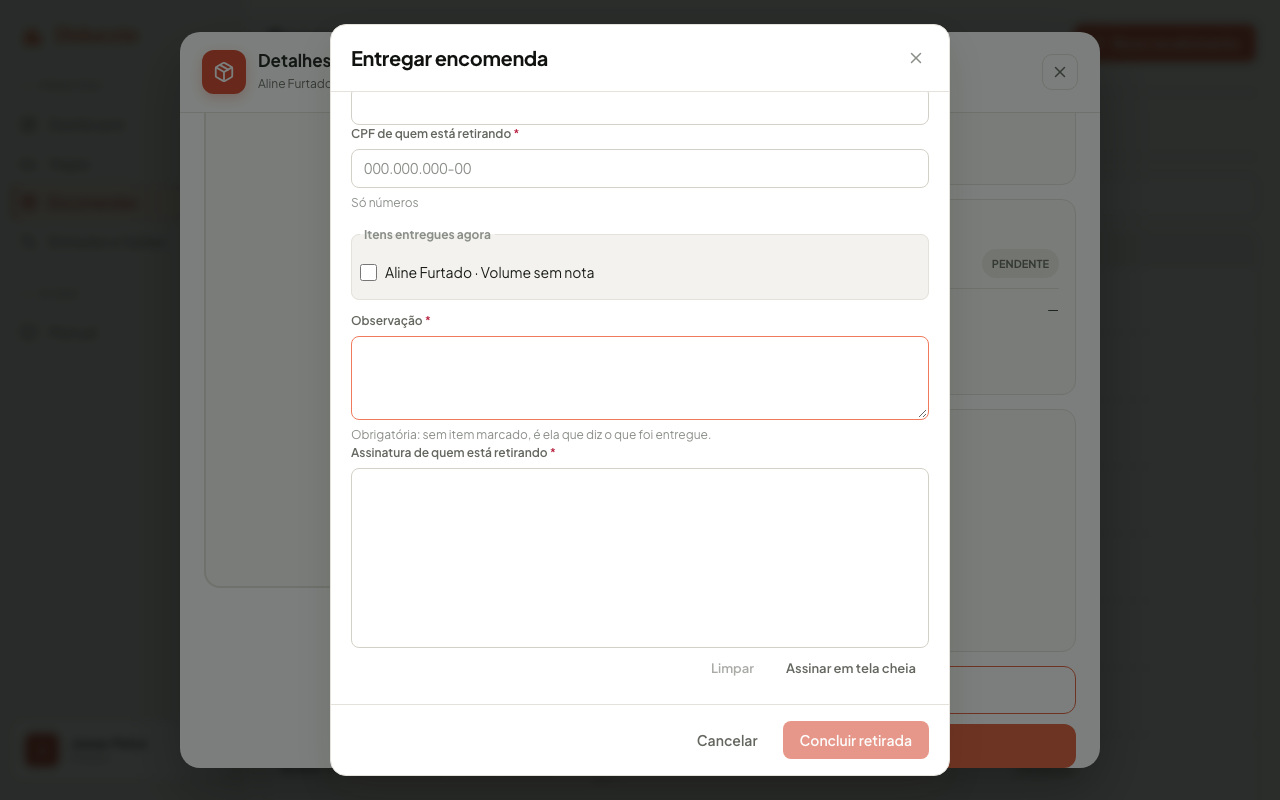
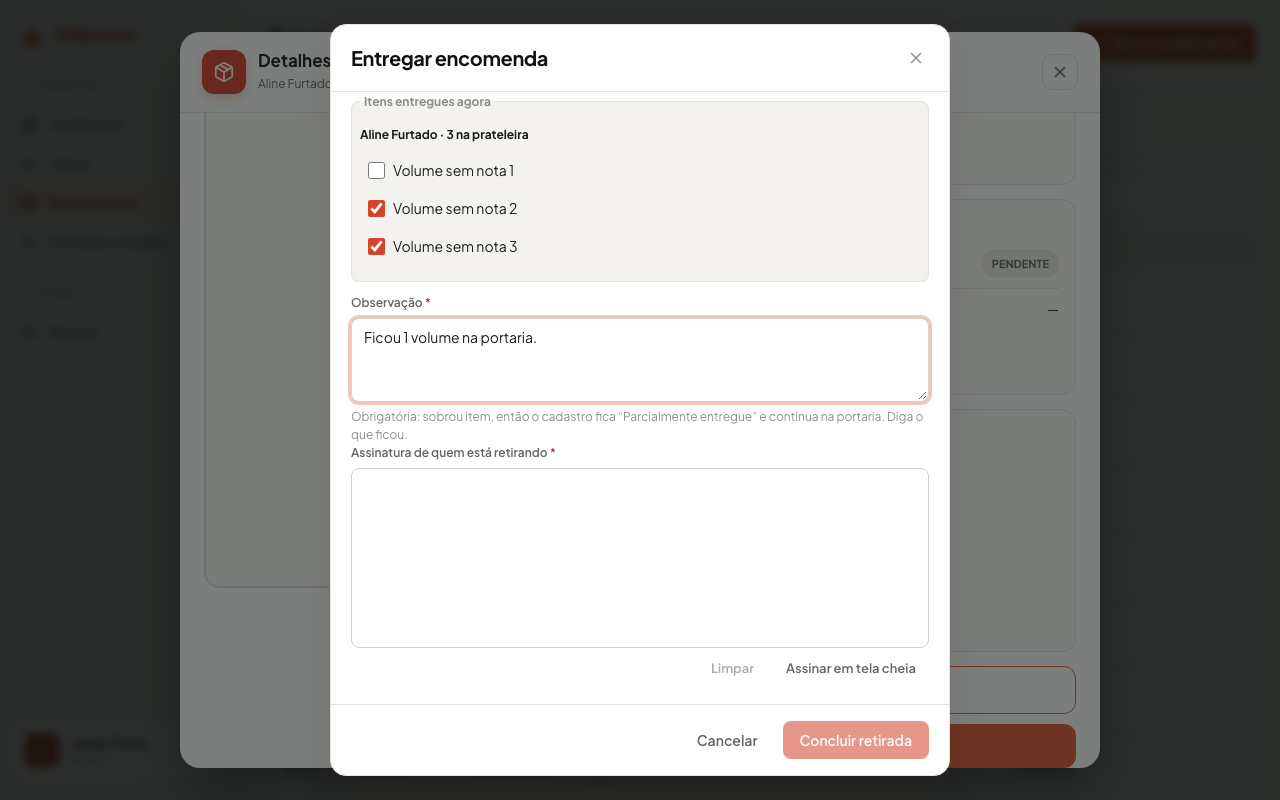
fix(app): Retirada parcial do Manual pede a Observação e usa Encomenda de vários volumes (revisão do PR #25)
Claude-Session: https://claude.ai/code/session_01Yan3o3hQLBQSWHKmtxiScJ

diff --git a/app/src/manual/paginas.js b/app/src/manual/paginas.js
@@ -690,25 +690,28 @@ export const PAGINAS = [
         passos: [
           {
             titulo: "Desmarcar o que fica",
-            texto: "Na Retirada, a lista “Itens entregues agora” vem com todos os volumes marcados. Desmarque os que não vão sair agora. Se nenhum ficar marcado, a “Observação” passa a ser obrigatória e é ela que diz o que foi entregue.",
+            texto: "Na Retirada, a lista “Itens entregues agora” vem com todos os volumes marcados. Desmarque os que não vão sair agora. Sempre que sobra volume, a “Observação” passa a ser obrigatória: é nela que você diz o que ficou na portaria.",
             print: {
               arquivo: "retirada/parcial.png",
               acoes: [
                 { clicar: "Ver detalhes" },
                 { clicar: "Confirmar Entrega" },
-                { clicar: "Volume sem nota", papel: "checkbox" },
+                { clicar: "Volume sem nota 1", papel: "checkbox" },
               ],
             },
           },
           {
             titulo: "Assinar só o que saiu",
-            texto: "Identifique quem retira, peça a assinatura e toque em “Concluir retirada”. A assinatura vale para os volumes marcados.",
+            texto: "Identifique quem retira, escreva na “Observação” o que ficou na portaria, peça a assinatura e toque em “Concluir retirada”. Sem a Observação, o botão fica desligado. A assinatura vale para os volumes marcados.",
             print: {
               arquivo: "retirada/parcial-assinar.png",
               acoes: [
                 { clicar: "Ver detalhes" },
                 { clicar: "Confirmar Entrega" },
-                { clicar: "Volume sem nota", papel: "checkbox" },
+                { clicar: "Volume sem nota 1", papel: "checkbox" },
+                { preencher: "Nome de quem está retirando", com: "Aline Furtado" },
+                { preencher: "CPF de quem está retirando", com: "11144477735" },
+                { preencher: "Observação", com: "Ficou 1 volume na portaria." },
                 { rolar: "Assinatura de quem está retirando" },
               ],
             },

diff --git a/app/src/__tests__/manual.test.js b/app/src/__tests__/manual.test.js
@@ -1,9 +1,14 @@
-import { describe, it, expect } from 'vitest'
+import { describe, it, expect, vi } from 'vitest'
 import { existsSync } from 'node:fs'
 import { dirname, join } from 'node:path'
 import { fileURLToPath } from 'node:url'
 import { PAGINAS, paginasDoCargo } from '../manual/paginas.js'
 import { planoDosPrints, PASTA_DOS_PRINTS } from '../manual/prints.js'
+import { TABELAS } from '../demo/dados.js'
+import { volumesDe } from '../components/RetiradaDialog.jsx'
+
+// A tela da Retirada importa o cliente do Supabase, que exige o .env.local.
+vi.mock('../api/supabase', () => ({ supabase: {} }))
 
 const ids = (cargo) => paginasDoCargo(cargo).map((p) => p.id)
 
@@ -64,6 +69,30 @@ describe('Manual: páginas da Portaria', () => {
       'Retirada parcial',
       'Retirada por outra pessoa',
     ])
+  })
+
+  const parcial = () => pagina('retirada').tarefas.find((t) => t.id === 'parcial').passos
+
+  it('na Retirada parcial a Observação é obrigatória sempre que sobra volume', () => {
+    const [desmarcar] = parcial()
+    expect(desmarcar.texto).toMatch(/sobra volume/)
+    expect(desmarcar.texto).not.toMatch(/nenhum ficar marcado/)
+  })
+
+  it('o passo de assinar da Retirada parcial preenche a Observação antes de concluir', () => {
+    const [, assinar] = parcial()
+    expect(assinar.texto).toContain('Observação')
+    expect(assinar.print.acoes).toContainEqual(expect.objectContaining({ preencher: 'Observação' }))
+  })
+
+  it('os prints da Retirada parcial desmarcam só um volume de uma Encomenda com mais de um', () => {
+    // O print abre a primeira Encomenda que aguarda retirada no modo demo.
+    const primeira = TABELAS.ENTREGAS.find((e) => e.status === 'Pendente')
+    expect(volumesDe(primeira)).toBeGreaterThan(1)
+    for (const passo of parcial().slice(0, 2)) {
+      const desmarcados = passo.print.acoes.filter((a) => a.papel === 'checkbox')
+      expect(desmarcados).toEqual([{ clicar: 'Volume sem nota 1', papel: 'checkbox' }])
+    }
   })
 
   it('Entradas e Saídas cita os cinco tipos de Pessoa de fora e a Passagem', () => {

diff --git a/app/src/demo/dados.js b/app/src/demo/dados.js
@@ -377,7 +377,7 @@ const entregas = Array.from({ length: 22 }, (_, i) => {
     data_recebimento: dia(-entre(0, 18)),
     data_entrega: recebida ? dia(-entre(0, 5)) : "",
     status: recebida ? "Entregue" : "Pendente",
-    quantidade: String(entre(1, 3)),
+    quantidade_encomenda: String(entre(1, 3)),
     transportadora: escolher(entregadores).nome,
     codigo: String(entre(100000, 999999)),
     responsavel: "Jonas Paiva",
